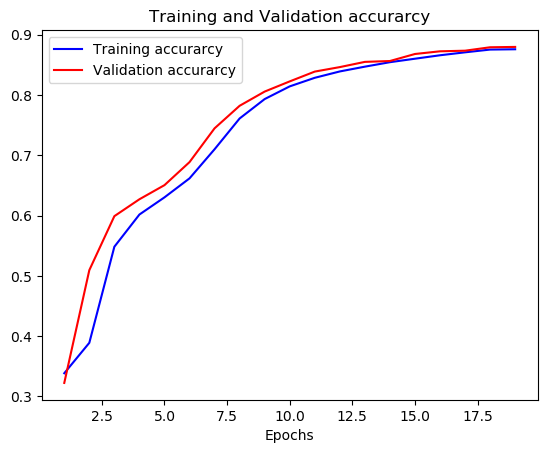
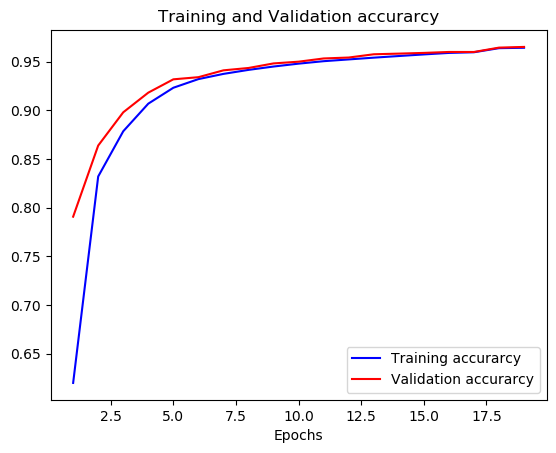
Fix VGG100k

diff --git a/models/vanilla_cnn/vanilla_cnn.py b/models/vanilla_cnn/vanilla_cnn.py
@@ -25,7 +25,7 @@ dirname = os.path.dirname(__file__)
 
 img_rows, img_cols = 28, 28
 batch_size = 32
-number_of_images_per_label = 10000
+number_of_images_per_label = 100000
 
 
 def define_random_tuner(num_classes, directory=Path("./"), project_name="vanilla_cnn_tuning"):
@@ -56,28 +56,6 @@ def create_train_save_model(x_train, y_train):
     model.add(Conv2D(256, (3, 3), activation='relu', kernel_constraint=max_norm(3), bias_constraint=max_norm(3), padding='same'))
     model.add(MaxPooling2D((2, 2), padding='same'))
     model.add(Dropout(0.2))
-
-    # odavde
-    # model.add(Conv2D(256, (3, 3), activation='relu', kernel_constraint=max_norm(3), bias_constraint=max_norm(3), padding='same'))
-    # model.add(MaxPooling2D((2, 2), padding='same'))
-    # model.add(Dropout(0.2))
-
-
-    # model.add(Conv2D(256, (3, 3), activation='relu', kernel_constraint=max_norm(3), bias_constraint=max_norm(3), padding='same'))
-    # model.add(MaxPooling2D((2, 2), padding='same'))
-    # model.add(Dropout(0.2))
-    #
-    #
-    # model.add(Conv2D(256, (3, 3), activation='relu', kernel_constraint=max_norm(3), bias_constraint=max_norm(3), padding='same'))
-    # model.add(MaxPooling2D((2, 2), padding='same'))
-    # model.add(Dropout(0.2))
-    #
-    #
-    # model.add(Conv2D(256, (3, 3), activation='relu', kernel_constraint=max_norm(3), bias_constraint=max_norm(3), padding='same'))
-    # model.add(MaxPooling2D((2, 2), padding='same'))
-    # model.add(Dropout(0.2))
-
-    # dovde
 
     model.add(Conv2D(256, (3, 3), activation='relu', padding='same', kernel_constraint=max_norm(3),
                      bias_constraint=max_norm(3)))
@@ -172,8 +150,7 @@ if __name__ == "__main__":
     # y_test_pred = np.argmax(model.predict(x_test), axis=1)
 
 
-
-    # from one-hot back to digits, because that's what sklearn.metrics.f1_score requires
+    # # from one-hot back to digits, because that's what sklearn.metrics.f1_score requires
     # y_train = np.argmax(y_train, axis=1)
     # y_test = np.argmax(y_test, axis=1)
     #
@@ -196,7 +173,7 @@ if __name__ == "__main__":
     # val_acc = history.history['val_acc']
     # train_loss = history.history['loss']
     # val_loss = history.history['val_loss']
-    # data_operations.plot_training_and_validation_data(train_acc, val_acc, train_loss, val_loss, '10k')
+    # data_operations.plot_training_and_validation_data(train_acc, val_acc, train_loss, val_loss, 'vanilla_cnn_100k')
 
     # test_image = image_operations.load_images(os.path.join(dirname, '../../data/img.npy'))
 

diff --git a/models/transfer_learning/transfer_learning.py b/models/transfer_learning/transfer_learning.py
@@ -14,7 +14,7 @@ from sklearn.metrics import confusion_matrix, classification_report
 import math
 dirname = os.path.dirname(__file__)
 
-batch_size = 512
+batch_size = 32
 number_of_images_per_label = 100000
 
 def get_model(model_name):
@@ -46,10 +46,9 @@ if __name__ == "__main__":
 
     # model has to be tweaked because the number of classes isn't the same
     outputs = base_model.output
-
-    outputs = Dense(1024, activation='relu')(outputs)
-    outputs = Dropout(0.2)(outputs)
-    outputs = BatchNormalization()(outputs)
+    # outputs = Dense(1024, activation='relu')(outputs)
+    # outputs = Dropout(0.2)(outputs)
+    # outputs = BatchNormalization()(outputs)
     # outputs = Dense(1024, activation='relu')(outputs)
     # outputs = Dropout(0.5)(outputs)
     # outputs = BatchNormalization()(outputs)
@@ -67,13 +66,13 @@ if __name__ == "__main__":
     y_train = y_train[:math.ceil(0.8 * len(y_train))]
     y_val = y_train[math.ceil(0.8 * len(y_train)):]
 
-    train_data_gen = ImageDataGenerator(rescale=1. / 255)
-    val_data_gen = ImageDataGenerator(rescale=1. / 255)
+    train_data_gen = ImageDataGenerator(rescale=1. / 1)
+    val_data_gen = ImageDataGenerator(rescale=1. / 1)
     train_generator = train_data_gen.flow(x_train, y_train, batch_size=batch_size)
     val_generator = val_data_gen.flow(x_val, y_val, batch_size=batch_size)
-    early_stopping = EarlyStopping(monitor='val_loss', patience=5, verbose=0, mode='min', min_delta=0.1)
+    early_stopping = EarlyStopping(monitor='val_loss', patience=7, verbose=0, mode='min', min_delta=0.05)
     mcp_save = ModelCheckpoint('VGG19_100k.h5', save_best_only=True, monitor='val_loss', mode='min')
-    reduce_lr_loss = ReduceLROnPlateau(monitor='val_loss', factor=0.1, patience=3, verbose=1, min_delta=1e-4, mode='min')
+    reduce_lr_loss = ReduceLROnPlateau(monitor='val_loss', factor=0.1, patience=5, verbose=1, min_delta=1e-4, mode='min')
     history = model.fit_generator(train_generator,
                         steps_per_epoch=len(x_train) // batch_size,
                         epochs=32,
